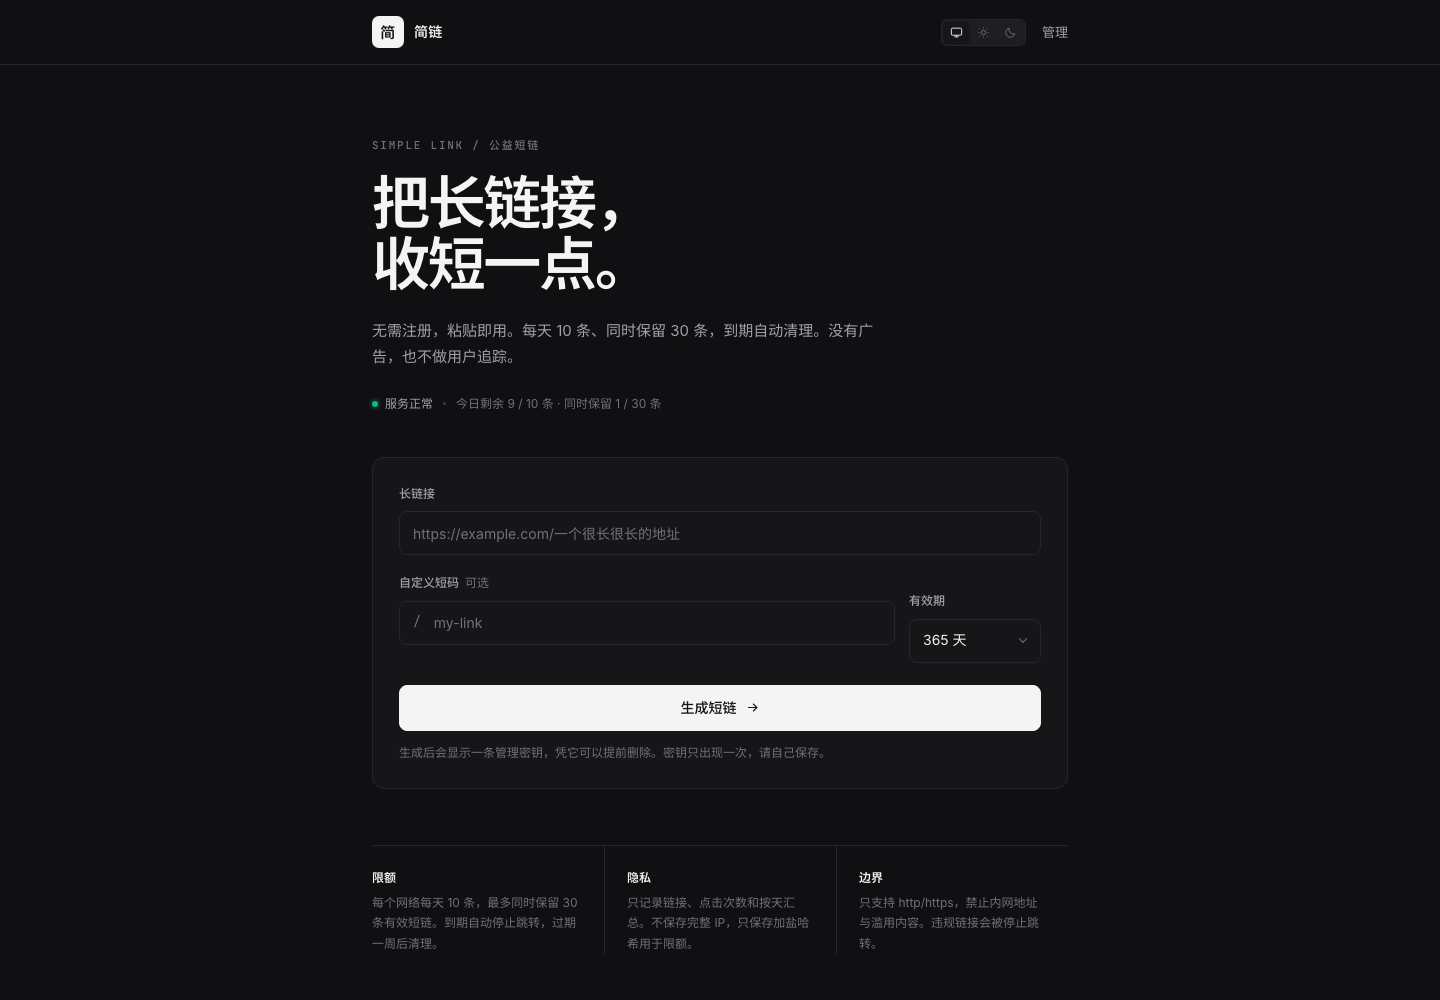
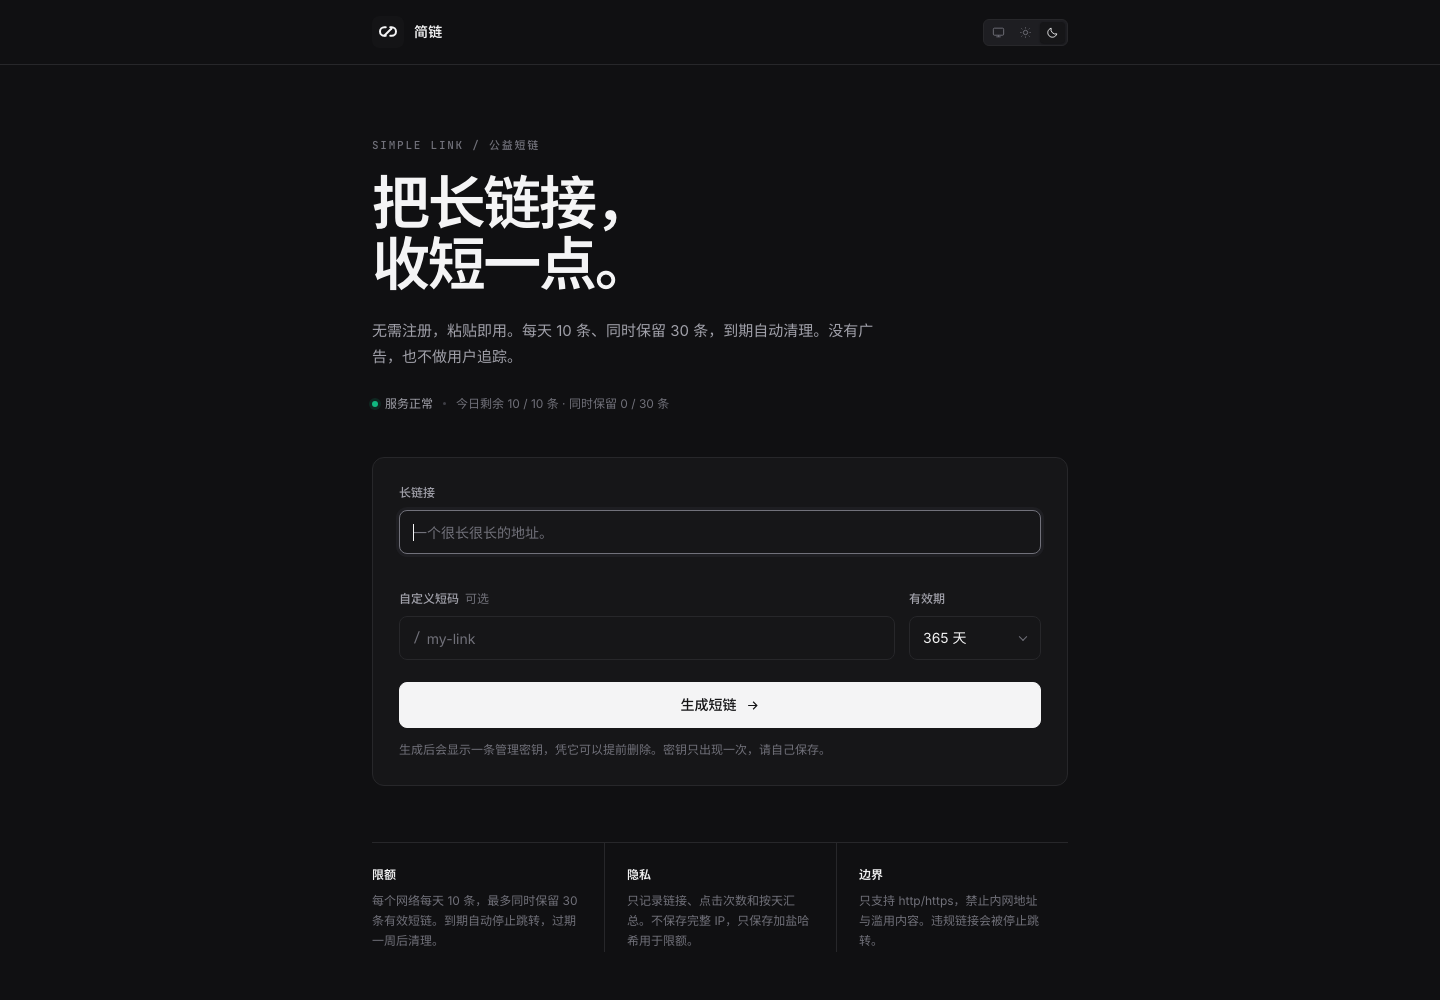
style: unify brand mark and refresh screenshots

diff --git a/public/index.html b/public/index.html
@@ -19,7 +19,7 @@
 <header class="site-header">
   <div class="header-inner">
     <a class="brand" href="/" aria-label="简链首页">
-      <span class="brand-mark">简</span>
+      <span class="brand-mark" aria-hidden="true"><img src="/favicon.svg" alt="" width="32" height="32"></span>
       <span class="brand-name">简链</span>
     </a>
     <div class="header-actions">
@@ -28,7 +28,6 @@
         <button type="button" class="theme-option" data-theme-mode="light" aria-label="浅色" title="浅色"><svg viewBox="0 0 24 24" fill="none" stroke="currentColor" stroke-width="1.7" aria-hidden="true"><circle cx="12" cy="12" r="4"/><path d="M12 2.5v2M12 19.5v2M4.6 4.6 6 6M18 18l1.4 1.4M2.5 12h2M19.5 12h2M4.6 19.4 6 18M18 6l1.4-1.4"/></svg></button>
         <button type="button" class="theme-option" data-theme-mode="dark" aria-label="深色" title="深色"><svg viewBox="0 0 24 24" fill="none" stroke="currentColor" stroke-width="1.7" aria-hidden="true"><path d="M20 14.5A8.5 8.5 0 0 1 9.5 4a8.5 8.5 0 1 0 10.5 10.5Z"/></svg></button>
       </div>
-      <a class="header-link" href="/admin">管理</a>
     </div>
   </div>
 </header>
@@ -49,7 +48,7 @@
     <form id="shorten-form">
       <label class="field" for="url-input">
         <span class="field-label">长链接</span>
-        <input class="input" id="url-input" name="url" type="text" inputmode="url" autocomplete="off" spellcheck="false" placeholder="https://www.example.com/notes/2026/11/26/a-very-long-address-with-many-segments-and-query-parameters?utm_source=simple-link" maxlength="4096" required autofocus>
+        <input class="input" id="url-input" name="url" type="text" inputmode="url" autocomplete="off" spellcheck="false" placeholder="一个很长很长的地址。" maxlength="4096" required autofocus>
       </label>
 
       <div class="field-row">
@@ -137,7 +136,7 @@
 
 <footer class="site-footer">
   <div class="footer-inner">
-    <p>© <span id="footer-year">2026</span> 简链 · 公益、克制的短链服务</p>
+    <p>© <span id="footer-year">2026</span> 简链 · 公益、简单的短链服务</p>
     <p class="footer-muted" id="footer-links">与「简单博客」共用一套黑白主题</p>
   </div>
 </footer>

diff --git a/public/admin.html b/public/admin.html
@@ -20,7 +20,7 @@
 <header class="site-header">
   <div class="header-inner">
     <a class="brand" href="/" aria-label="简链首页">
-      <span class="brand-mark">简</span>
+      <span class="brand-mark" aria-hidden="true"><img src="/favicon.svg" alt="" width="32" height="32"></span>
       <span class="brand-name">简链</span>
       <span class="optional">/ 管理</span>
     </a>
@@ -136,7 +136,7 @@
 
 <footer class="site-footer">
   <div class="footer-inner">
-    <p>© <span id="footer-year">2026</span> 简链 · 公益、克制的短链服务</p>
+    <p>© <span id="footer-year">2026</span> 简链 · 公益、简单的短链服务</p>
     <p class="footer-muted">管理页面不参与搜索引擎索引</p>
   </div>
 </footer>

diff --git a/public/style.css b/public/style.css
@@ -124,15 +124,14 @@ textarea {
 .brand-mark {
   width: 32px;
   height: 32px;
-  display: grid;
-  place-items: center;
-  border-radius: 7px;
-  background: var(--accent);
-  color: var(--accent-fg);
-  font-size: 15px;
-  font-weight: 600;
-  line-height: 1;
-  letter-spacing: 0.02em;
+  display: block;
+  flex-shrink: 0;
+}
+
+.brand-mark img {
+  display: block;
+  width: 100%;
+  height: 100%;
 }
 
 .brand-name {

diff --git a/src/pages.js b/src/pages.js
@@ -23,7 +23,7 @@ function header() {
   return `<header class="site-header">
   <div class="header-inner">
     <a class="brand" href="/" aria-label="简链首页">
-      <span class="brand-mark">简</span>
+      <span class="brand-mark" aria-hidden="true"><img src="/favicon.svg" alt="" width="32" height="32"></span>
       <span class="brand-name">简链</span>
     </a>
     <div class="header-actions">
